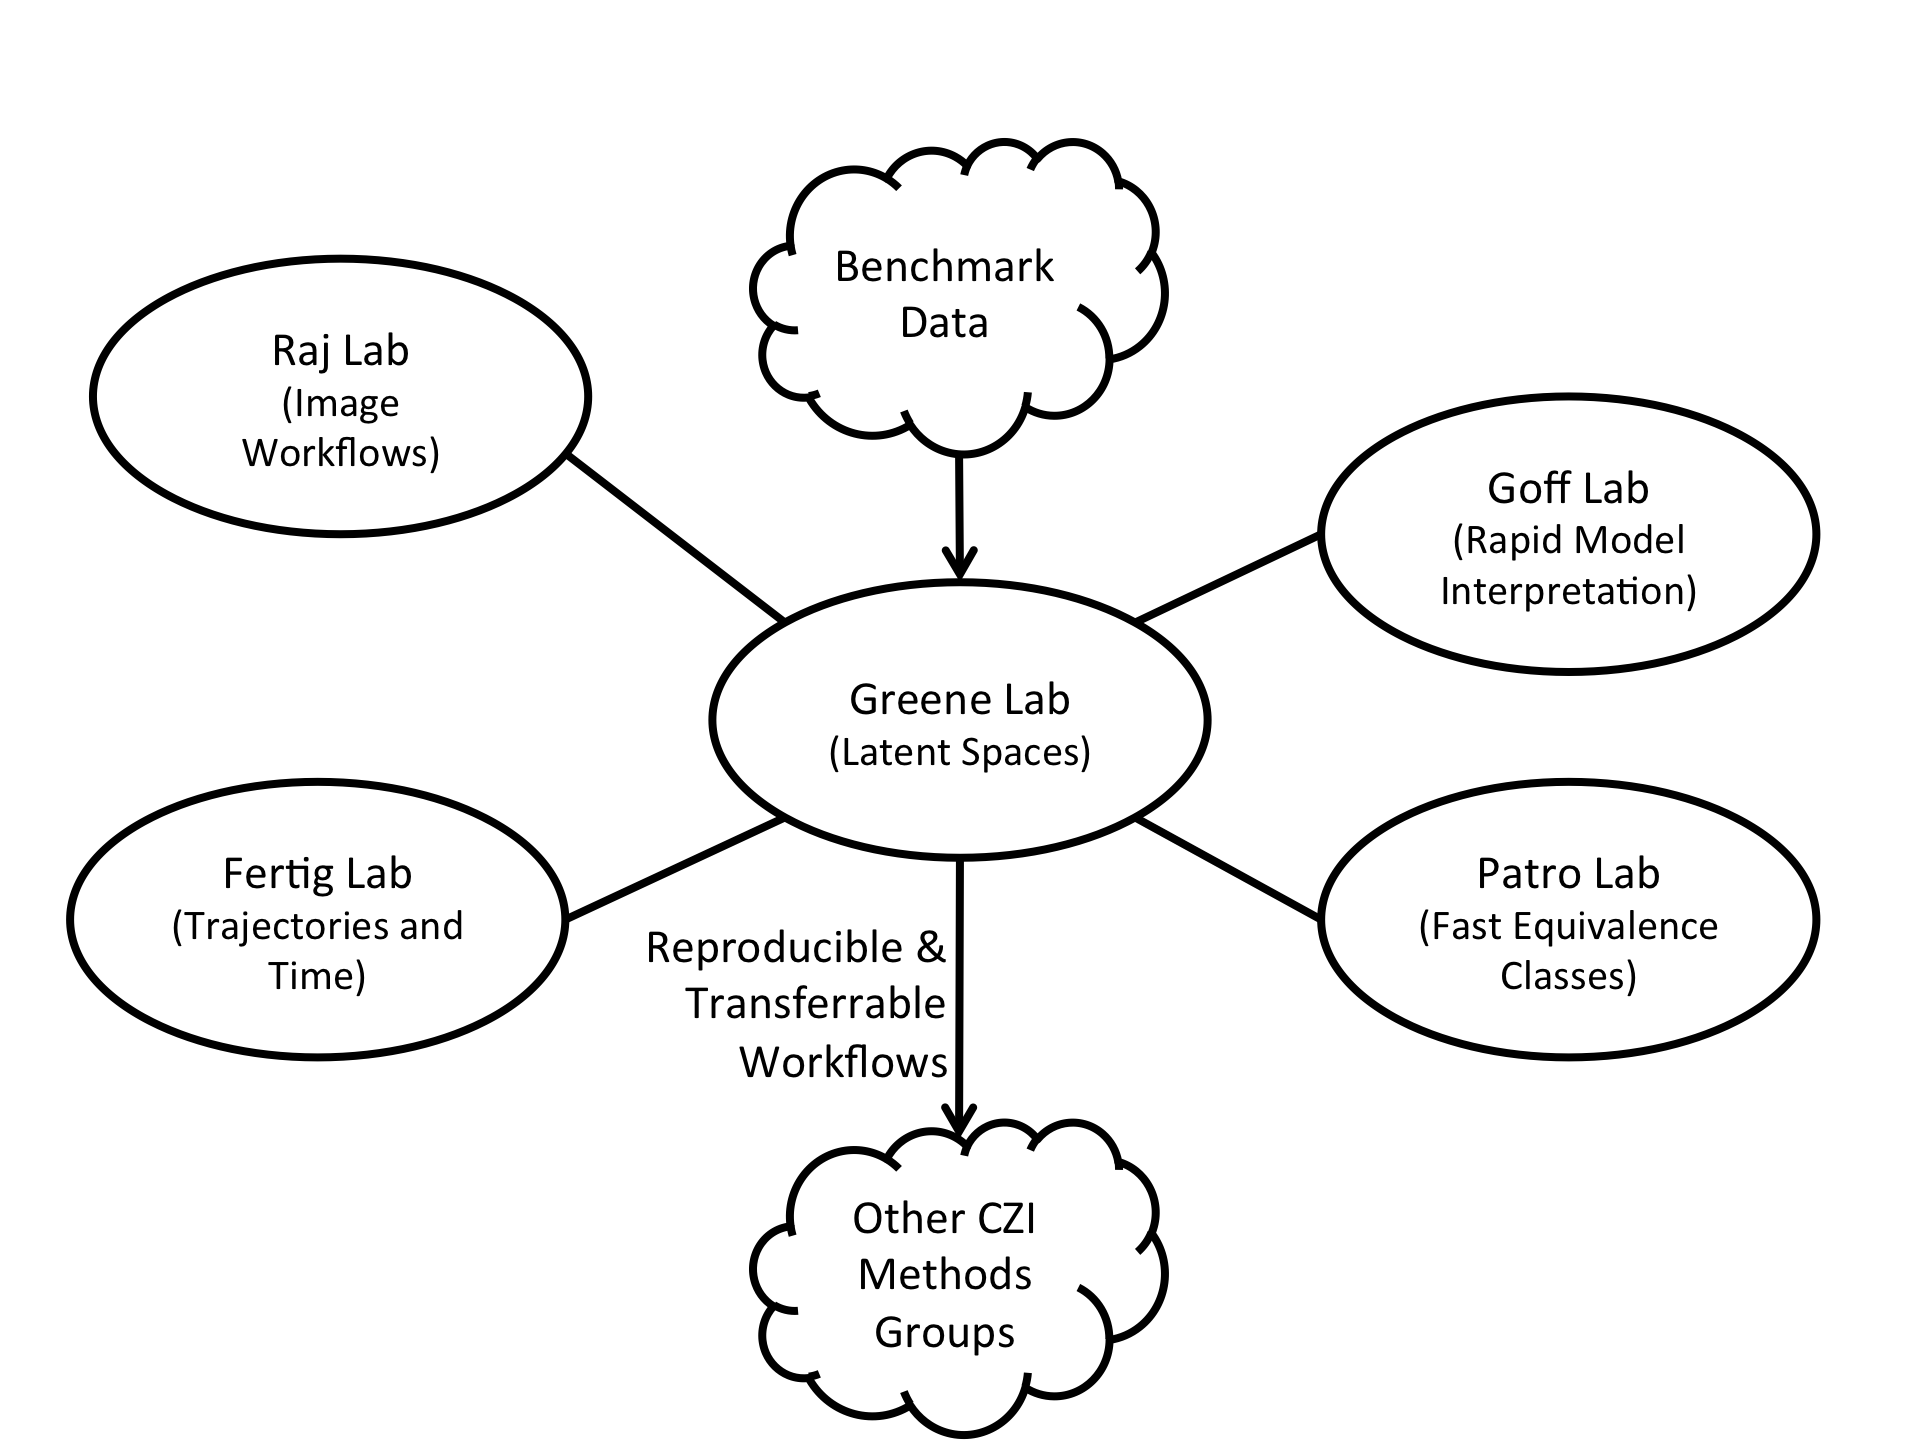
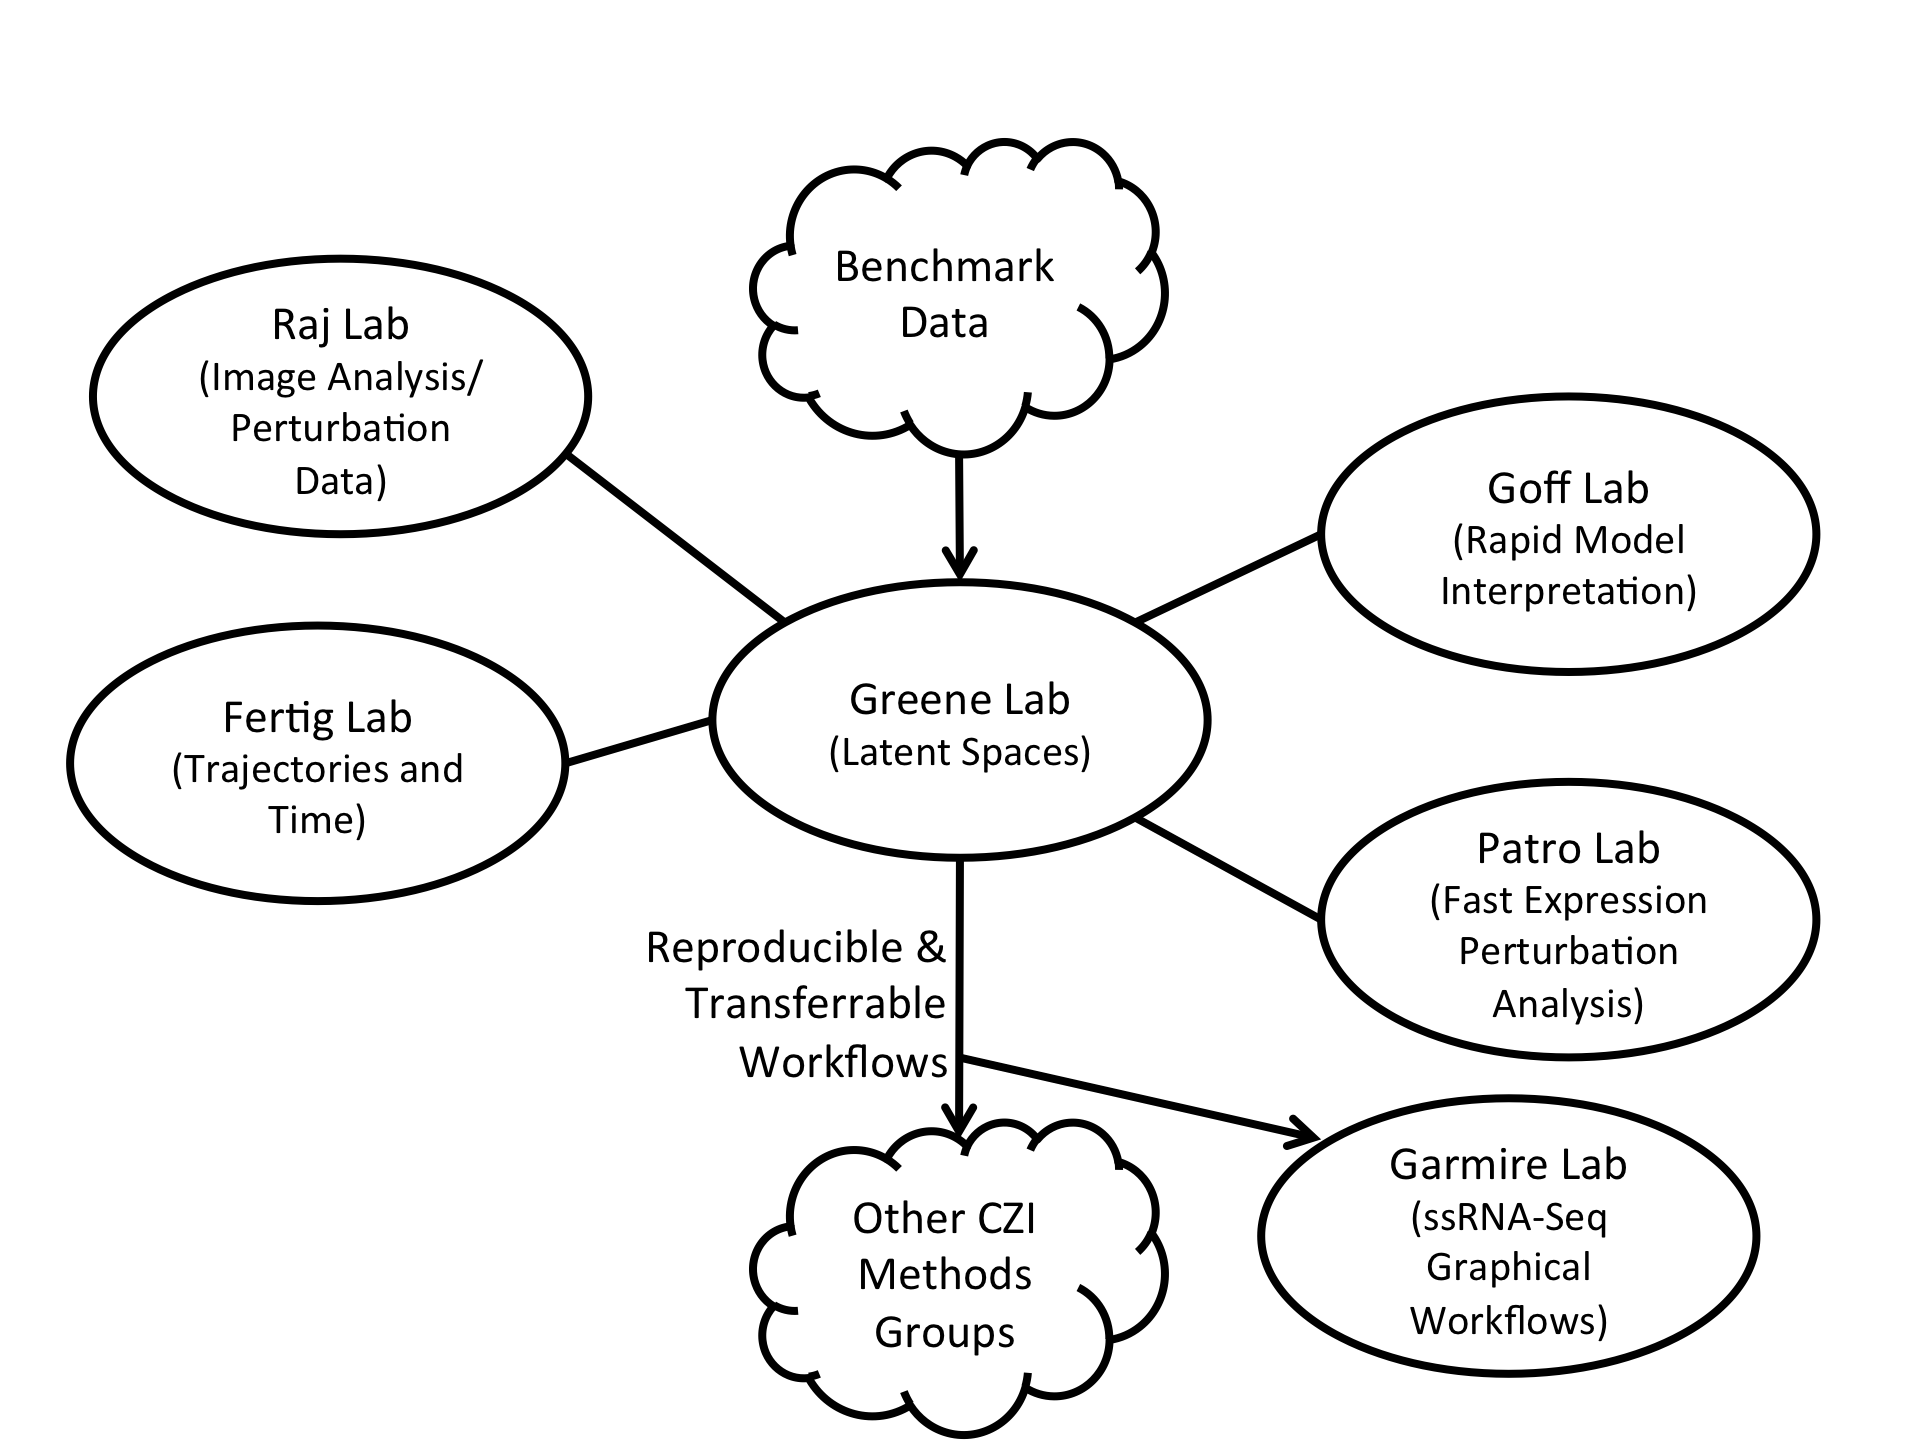
update collab net text, shorten, currently 2.4k chars, 350 words

diff --git a/collaborative_network.md b/collaborative_network.md
@@ -1,9 +1,9 @@
-Our collaborative network includes a number of groups expected to respond to this RFA. Selected but by no means comprehensive interactions include:
+Our collaborative network includes a number of groups responding to this RFA. This group of investigators came together around a set of responses to the RFA that were shared openly on GitHub as they were written. Selected interactions between groups include:
 
-* _Augmented training_ is a technique used in image analysis via the selection of arbitrary patches or the application of arbitrary rotations to avoid learning meaningless structure in data. The single cell gene expression equivalent is the bootstrap resampling of reads. Rob Patro, an expert in fast gene expression quantification, is expected to apply. We hope to work with Rob to generate augmented training examples by very rapidly resampling observed cells.
+* _Augmented training_ is a technique used in deep learning applications to image data. During training, arbitrary patches are selected or arbitrary rotations are applied to training data to avoid learning irrelevant structure in data. We propose an innovative equivalent for single cell expression data by sampling reads. This requires fast expression quantification. We plan to work with Rob Patro, an expert in fast gene expression quantification, to implement data augmentation by very rapidly single cell observations.
+* _Deep learning_ is expected to be relevant to other proposals. For example, Arjun Raj proposes to apply these methods for image segmentation analysis. We recently completed a large GitHub-authored collaborative review to identify deep learning strategies that address biological problems. We look forward to advising Arjun's group and others as they apply these methods.
 * _Model Interpretation_ is a key factor for any unsupervised approach. Elana Fertig and Loyal Goff's applications (shared via GitHub) describes methods for the interpretation of unsupervised models. We are excited to collaborate on methods and infrastructure for model interpretation. We have previously interacted via github on related work and added features based on between-group requests.
-* _Deep learning_ is expected to be relevant to other proposals. For example, Arjun Raj proposes to apply these methods for image segmentation analysis. We recently completed a large GitHub-authored collaborative review to identify deep learning strategies that address biological problems. We look forward to working with Arjun's group and others as they apply these methods.
-* _Reproducible workflows_ will be needed to consistently apply and evaluate methods. We are happy to work with any participating groups, as well as CZI software developers, to provide and configure continuous integration servers for scientific workflows. We have not included a budget for this in our application as it would seem to make more sense as a centrally provided service; however, we can modify our plan to incorporate this if requested. Rob Patro's group has previously extended our example configurations to provide a sample workflow via continuous integration.
-* _Interactive Graphic based analysis portal to empower bench scientists on single-cell genomics analysis. Lana Garmire's group has developed Granatum, an interactive graphic interface for single cell analysis. This data analysis portal zeroed the distance between computational biologists who develop computational and statistical methods addressing various issues of single cell genomics and bench scientists who have domain expertise and understand the model systems well. We will xxxxxxxx
+* _Interactive analyses_ can empower bench scientists to direct the analysis of single-cell genomics data. Lana Garmire's group has developed Granatum, an interactive graphic interface for single cell analysis and is responding to this analyses. We will provide source code for generating VAEs that can be incorporated into Granatum and Granatum-like systems.
+* _Reproducible workflows_ will be needed to consistently apply and evaluate methods. We are happy to work with any participating groups, as well as CZI software developers, to provide and configure continuous integration servers for scientific workflows. For example, Rob Patro's group has previously extended our example configurations to provide a workflow for Salmon. We have not budgeted this in our application as a centrally provided service makes sense; however, we can modify our budget to cover this if requested.
 
 If you are writing a proposal that you feel is relevant to ours, please file a pull request to add a mention or let me know in some way.
